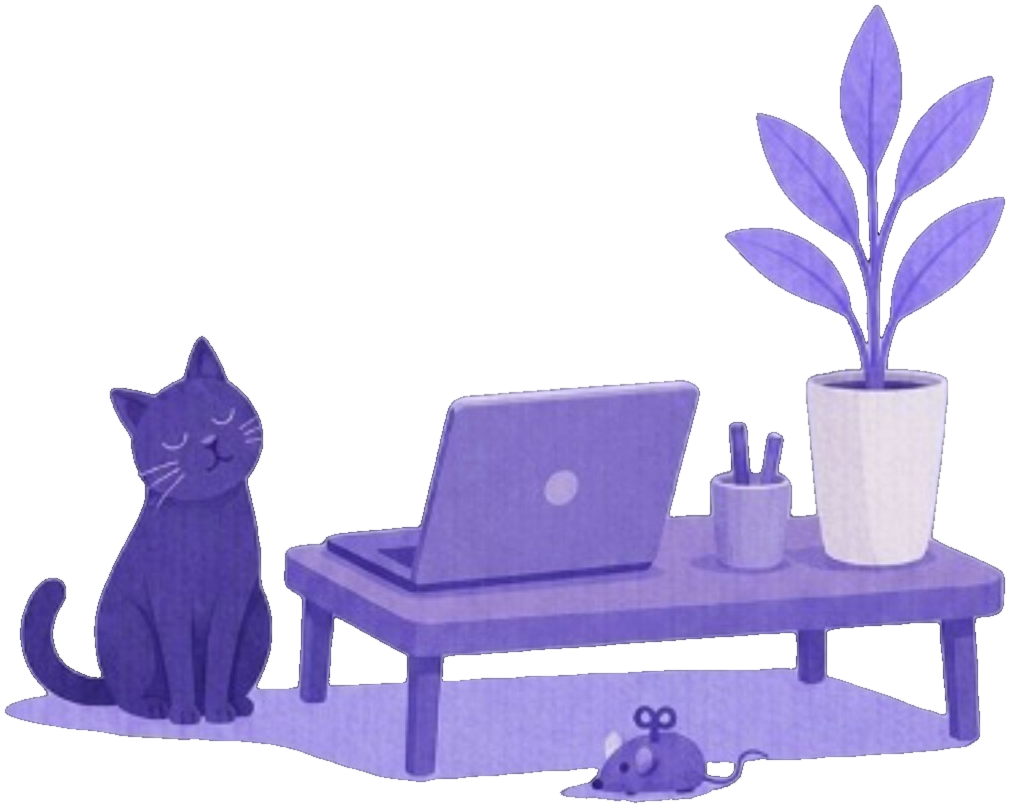
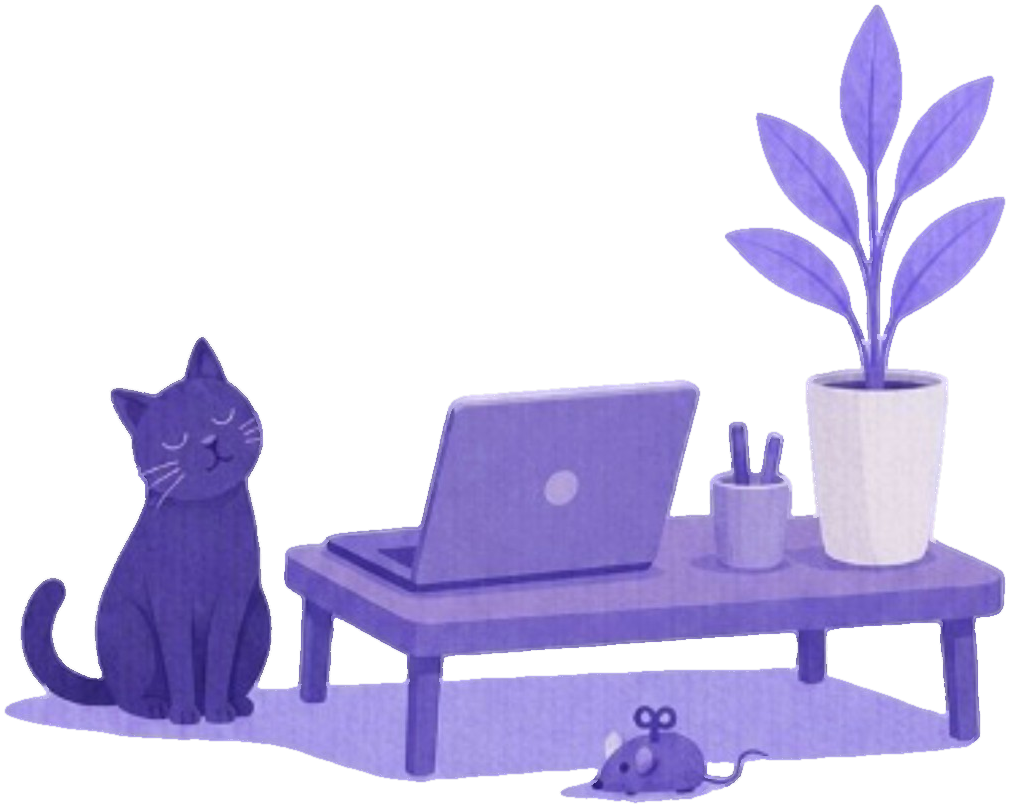
fix(pvm): Design C art-c-v16 — wide copy + tip2/tip3 fringe
Widen .pvm-copy to ~96% so body fills empty right space above art (tip3 annotation); keep bottom clearance and left CTA. Soften dark contour fringe on tip2/tip3 PNGs.

diff --git a/frontend/app/assets/main.css b/frontend/app/assets/main.css
@@ -17317,13 +17317,14 @@ button.button {
   --pvm-pad-x: 8.2%;
   /* Footer CTA + art: series-c — кнопки слева, сцена справа */
   --pvm-nav-h: 42px;
-  --pvm-art-clearance: 40%;
+  /* Снизу clear под арт; copy почти на всю ширину над сценой */
+  --pvm-art-clearance: 36%;
   /* Сцена чуть над рядом CTA, чтобы тень/лапы не заходили в кнопку */
   --pvm-art-bottom: calc(var(--pvm-nav-h) + 6px);
-  /* Левая зона под CTA */
+  /* Левая зона под CTA — не наезжает на арт справа */
   --pvm-cta-max: 48%;
-  /* Текстовая колонка — шире к series-c, арт справа clear */
-  --pvm-copy-max: 70%;
+  /* Copy почти на всю ширину (красная аннотация заказчика) */
+  --pvm-copy-max: 96%;
   position: relative;
   display: flex;
   flex-direction: column;
@@ -17601,18 +17602,19 @@ button.button {
   margin-bottom: 8px;
   overflow: auto;
   padding-right: 2px;
-  /* series-c: колонка шире ~⅔ карточки, снизу clearance под арт */
-  max-width: min(var(--pvm-copy-max), 18.5rem);
+  /* Широкий блок в пустое правое поле над артом; снизу clearance под сцену */
+  max-width: var(--pvm-copy-max);
+  width: 100%;
   padding-bottom: var(--pvm-art-clearance);
 }
 
 .pvm-card--welcome .pvm-copy {
-  max-width: min(72%, 17.5rem);
-  padding-bottom: 38%;
+  max-width: 96%;
+  padding-bottom: 34%;
 }
 
 .pvm-slide--intro .pvm-copy {
-  max-width: 88%;
+  max-width: 96%;
   flex: 0 0 auto;
   padding-bottom: 0;
   margin-top: 18px;
@@ -17624,33 +17626,27 @@ button.button {
 }
 
 .pvm-slide--fresh .pvm-title,
-.pvm-slide--weekend .pvm-title {
-  max-width: min(90%, 20rem);
+.pvm-slide--weekend .pvm-title,
+.pvm-slide--pace .pvm-title,
+.pvm-slide--triggers .pvm-title {
+  max-width: 96%;
 }
 
-.pvm-slide--pace .pvm-title {
-  max-width: min(88%, 19rem);
+.pvm-slide--pace .pvm-copy,
+.pvm-slide--fresh .pvm-copy,
+.pvm-slide--weekend .pvm-copy,
+.pvm-slide--triggers .pvm-copy {
+  max-width: 96%;
+  padding-bottom: var(--pvm-art-clearance);
 }
 
-.pvm-slide--pace .pvm-copy {
-  max-width: min(68%, 17.5rem);
-  padding-bottom: 36%;
+/* tip3 (weekend): сцена выше — чуть больше нижний clear, текст всё равно широкий */
+.pvm-slide--weekend .pvm-copy {
+  padding-bottom: 38%;
 }
 
 .pvm-slide--fresh .pvm-copy {
-  /* Сцена со столом шире — колонка чуть уже tip1, но не «лента слева» */
-  max-width: min(60%, 15.8rem);
-  padding-bottom: 42%;
-}
-
-.pvm-slide--weekend .pvm-copy {
-  max-width: min(64%, 16.8rem);
   padding-bottom: 40%;
-}
-
-.pvm-slide--triggers .pvm-copy {
-  max-width: min(66%, 17.2rem);
-  padding-bottom: 38%;
 }
 
 .pvm-text {

diff --git a/frontend/app/data/postVacationMemoSlides.ts b/frontend/app/data/postVacationMemoSlides.ts
@@ -14,7 +14,7 @@ export type PostVacationMemoSlide = {
   laterCta?: string;
 };
 
-const ART_V = 'art-c-v15';
+const ART_V = 'art-c-v16';
 
 /** Первый экран: тепло, без акцента что выход = хандра. */
 export const POST_VACATION_WELCOME: PostVacationMemoSlide = {

diff --git a/docs/CHANGELOG.md b/docs/CHANGELOG.md
@@ -4,6 +4,13 @@
 
 ## 2026-08-27
 
+### Памятка Design C: широкий текст + tip2/tip3 без тёмной кромки (art-c-v16)
+- Layout: `.pvm-copy` почти на всю ширину (`max-width: 96%`) — заполняет пустое правое поле над артом (красная аннотация на tip3). Узкая левая колонка снята. Снизу clearance под арт; CTA слева без наезда.
+- Арт tip2/tip3: с PNG снят/осветлён тёмный контурный fringe. Cache-bust `?v=art-c-v16`.
+- CSS: у `.pvm-illust` без `border`/`outline`/`box-shadow`/`filter`.
+- Файлы: `main.css`, `postVacationMemoSlides.ts`, `public/memos/pvm-c-art-tip{2,3}.png`.
+- Проверка: `?pvm=tips` → таб 4 (tip3) — текст широкий вправо над котом; tip2/tip3 без чёрной обводки. Стейдж `:8080`, hard refresh. Прод не трогали.
+
 ### База знаний: блок «код» — тёмно-синий фон
 - `.kb-code` фон `#111` → `#0d1b2a` (near-black navy, ITMO). Общие стили WYSIWYG: редактор сотрудника/админа и просмотр статьи.
 - Файлы: `main.css`. Проверка: `/knowledge/write` и статья с блоком кода. Стейдж `:8080`. Прод не трогали.
